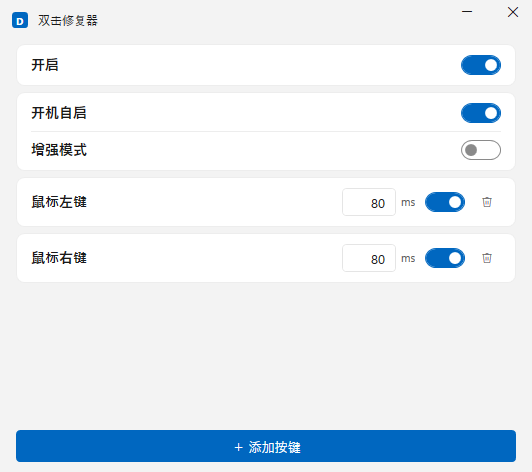
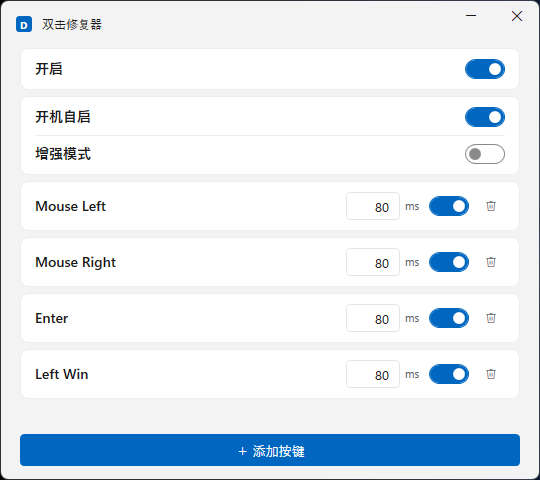
更新 README 与截图，默认阈值改为 60ms
- 启用单文件压缩，产物约 72MB
- 默认扣留阈值 80ms 改为 60ms，配置迁移到 v3
- README 与界面截图更新

diff --git a/src/DoubleClickHealer.Core/Config/AppConfig.cs b/src/DoubleClickHealer.Core/Config/AppConfig.cs
@@ -2,7 +2,7 @@ namespace DoubleClickHealer.Core.Config;
 
 public sealed record AppConfig
 {
-    public int Version { get; init; } = 2;
+    public int Version { get; init; } = 3;
 
     /// <summary>软件总开关。</summary>
     public bool Enabled { get; init; } = true;
@@ -18,29 +18,50 @@ public sealed record AppConfig
 
     public static List<KeyRule> DefaultTargets() =>
     [
-        KeyRule.Mouse(MouseButtons.Left, 80),
-        KeyRule.Mouse(MouseButtons.Right, 80),
+        KeyRule.Mouse(MouseButtons.Left, 60),
+        KeyRule.Mouse(MouseButtons.Right, 60),
     ];
 
     /// <summary>
-    /// v1 的默认目标是左/右/中键、40ms；升级到 v2 时把纯默认配置替换为新默认，
-    /// 用户自定义过的配置只升级版本号。
+    /// 逐版本迁移纯默认配置；用户自定义过的配置只升级版本号，不覆盖。
+    /// v1: 左/右/中键 40ms
+    /// v2: 左/右键 80ms
+    /// v3: 左/右键 60ms
     /// </summary>
     public static AppConfig Migrate(AppConfig config)
     {
-        if (config.Version >= 2) return config;
+        if (config.Version >= 3) return config;
 
-        bool isLegacyDefault = config.Targets.Count == 3
-            && config.Targets.All(rule => rule.Kind == InputKind.Mouse && rule.HoldMs == 40)
-            && config.Targets
-                .Select(rule => rule.Code)
-                .OrderBy(code => code)
-                .SequenceEqual([MouseButtons.Left, MouseButtons.Right, MouseButtons.Middle]);
+        var migrated = config;
 
-        var migrated = config with { Version = 2 };
+        if (migrated.Version < 2)
+        {
+            bool isV1Default = migrated.Targets.Count == 3
+                && migrated.Targets.All(rule => rule.Kind == InputKind.Mouse && rule.HoldMs == 40)
+                && migrated.Targets
+                    .Select(rule => rule.Code)
+                    .OrderBy(code => code)
+                    .SequenceEqual([MouseButtons.Left, MouseButtons.Right, MouseButtons.Middle]);
 
-        return isLegacyDefault
-            ? migrated with { Targets = DefaultTargets(), RunAtStartup = true }
-            : migrated;
+            migrated = migrated with { Version = 2 };
+            if (isV1Default)
+                migrated = migrated with { Targets = DefaultTargets(), RunAtStartup = true };
+        }
+
+        if (migrated.Version < 3)
+        {
+            bool isV2Default = migrated.Targets.Count == 2
+                && migrated.Targets.All(rule => rule.Kind == InputKind.Mouse && rule.HoldMs == 80)
+                && migrated.Targets
+                    .Select(rule => rule.Code)
+                    .OrderBy(code => code)
+                    .SequenceEqual([MouseButtons.Left, MouseButtons.Right]);
+
+            migrated = migrated with { Version = 3 };
+            if (isV2Default)
+                migrated = migrated with { Targets = DefaultTargets() };
+        }
+
+        return migrated;
     }
 }

diff --git a/tests/DoubleClickHealer.Core.Tests/ConfigStoreTests.cs b/tests/DoubleClickHealer.Core.Tests/ConfigStoreTests.cs
@@ -26,7 +26,7 @@ public sealed class ConfigStoreTests : IDisposable
         Assert.True(store.Current.StartMinimized);
         Assert.Equal(2, store.Current.Targets.Count);
         Assert.All(store.Current.Targets, rule => Assert.Equal(InputKind.Mouse, rule.Kind));
-        Assert.All(store.Current.Targets, rule => Assert.Equal(80, rule.HoldMs));
+        Assert.All(store.Current.Targets, rule => Assert.Equal(60, rule.HoldMs));
     }
 
     [Fact]
@@ -46,10 +46,31 @@ public sealed class ConfigStoreTests : IDisposable
 
         using var store = new ConfigStore(_path);
 
-        Assert.Equal(2, store.Current.Version);
+        Assert.Equal(3, store.Current.Version);
         Assert.True(store.Current.RunAtStartup);
         Assert.Equal(2, store.Current.Targets.Count);
-        Assert.All(store.Current.Targets, rule => Assert.Equal(80, rule.HoldMs));
+        Assert.All(store.Current.Targets, rule => Assert.Equal(60, rule.HoldMs));
+    }
+
+    [Fact]
+    public void V2DefaultConfig_MigratesToSixtyMs()
+    {
+        File.WriteAllText(_path, """
+            {
+              "version": 2,
+              "runAtStartup": true,
+              "targets": [
+                { "kind": "Mouse", "code": 1, "holdMs": 80 },
+                { "kind": "Mouse", "code": 2, "holdMs": 80 }
+              ]
+            }
+            """);
+
+        using var store = new ConfigStore(_path);
+
+        Assert.Equal(3, store.Current.Version);
+        Assert.Equal(2, store.Current.Targets.Count);
+        Assert.All(store.Current.Targets, rule => Assert.Equal(60, rule.HoldMs));
     }
 
     [Fact]
@@ -68,7 +89,7 @@ public sealed class ConfigStoreTests : IDisposable
 
         using var store = new ConfigStore(_path);
 
-        Assert.Equal(2, store.Current.Version);
+        Assert.Equal(3, store.Current.Version);
         Assert.False(store.Current.RunAtStartup);
         Assert.Equal(2, store.Current.Targets.Count);
         Assert.Equal(35, store.Current.Targets[0].HoldMs);

diff --git a/src/DoubleClickHealer.Core/KeyRule.cs b/src/DoubleClickHealer.Core/KeyRule.cs
@@ -22,7 +22,7 @@ public sealed record KeyRule
     public bool Enabled { get; init; } = true;
 
     /// <summary>扣留 UP 的时长，0 表示轻量模式（不扣留，仅丢弃重复 DOWN）。</summary>
-    public int HoldMs { get; init; } = 80;
+    public int HoldMs { get; init; } = 60;
 
     /// <summary>两个事件间隔小于此值直接判为抖动。</summary>
     public int ChatterGapMs { get; init; } = 20;
@@ -33,14 +33,14 @@ public sealed record KeyRule
     /// <summary>上次是碎片按时，放宽到该间隔内仍判为抖动。</summary>
     public int ChatterGapLongMs { get; init; } = 60;
 
-    public static KeyRule Mouse(int button, int holdMs = 80) => new()
+    public static KeyRule Mouse(int button, int holdMs = 60) => new()
     {
         Kind = InputKind.Mouse,
         Code = button,
         HoldMs = holdMs,
     };
 
-    public static KeyRule Keyboard(int virtualKey, int holdMs = 80) => new()
+    public static KeyRule Keyboard(int virtualKey, int holdMs = 60) => new()
     {
         Kind = InputKind.Keyboard,
         Code = virtualKey,

diff --git a/src/DoubleClickHealer.App/ViewModels/MainViewModel.cs b/src/DoubleClickHealer.App/ViewModels/MainViewModel.cs
@@ -171,8 +171,8 @@ public sealed class MainViewModel : ObservableObject
         }
 
         KeyRule rule = kind == InputKind.Mouse
-            ? KeyRule.Mouse(code, 80)
-            : KeyRule.Keyboard(code, 80);
+            ? KeyRule.Mouse(code, 60)
+            : KeyRule.Keyboard(code, 60);
 
         var viewModel = new KeyRuleViewModel(rule);
         viewModel.Changed += ScheduleSave;

diff --git a/README.md b/README.md
@@ -1,6 +1,8 @@
 # 双击修复器
 
-修复鼠标、键盘因微动或轴体老化产生的**双击、连击、拖拽中断**。
+修复因微动或轴体老化产生的**双击、连击、拖拽中断**。
+
+支持**鼠标**和**键盘**，自定义按键。
 
 Windows 托盘小工具，常驻后台。
 
@@ -8,8 +10,7 @@ Windows 托盘小工具，常驻后台。
 
 ## 使用
 
-1. 启动后总开关「开启」默认打开，默认监控**鼠标左键和右键**，阈值 **80ms**
+1. 启动后总开关「开启」默认打开，默认监控**鼠标左键和右键**，阈值 **60ms**
 2. 点「＋ 添加按键」，按下需要修复的键即可加入列表
-3. 数字框调整每个键的阈值，默认**80ms**，过高会影响正常输入，过低效果不好
+3. 数字框调整每个键的阈值，默认**60ms**，过高会影响正常输入，过低效果不好
 4. 关闭窗口或点最小化都会收进托盘，不会退出
-
